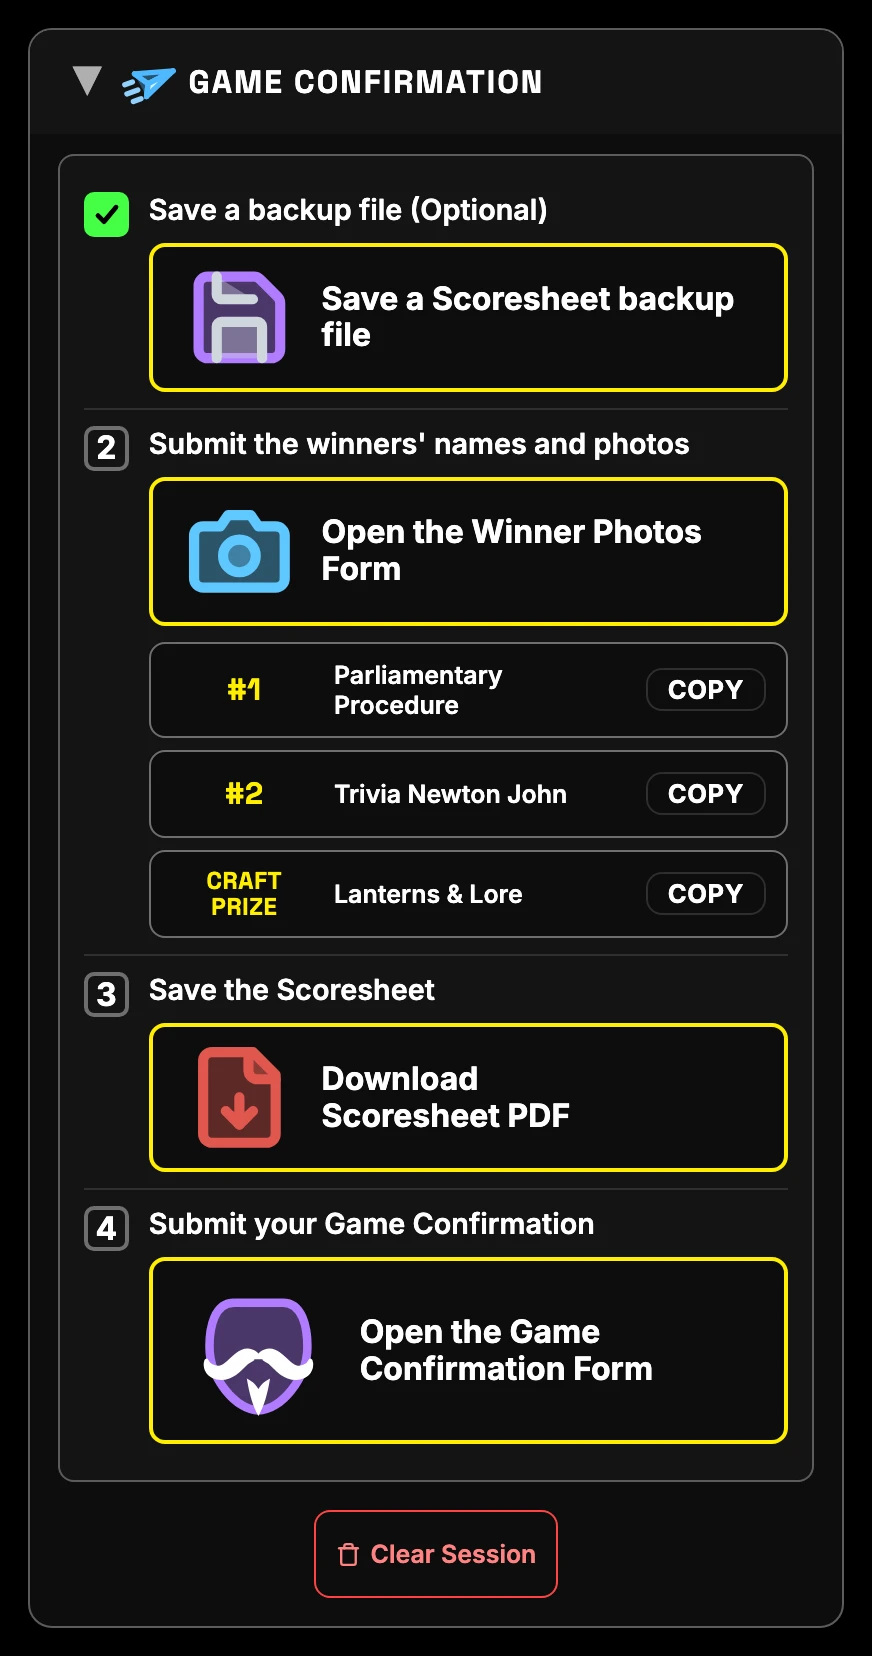
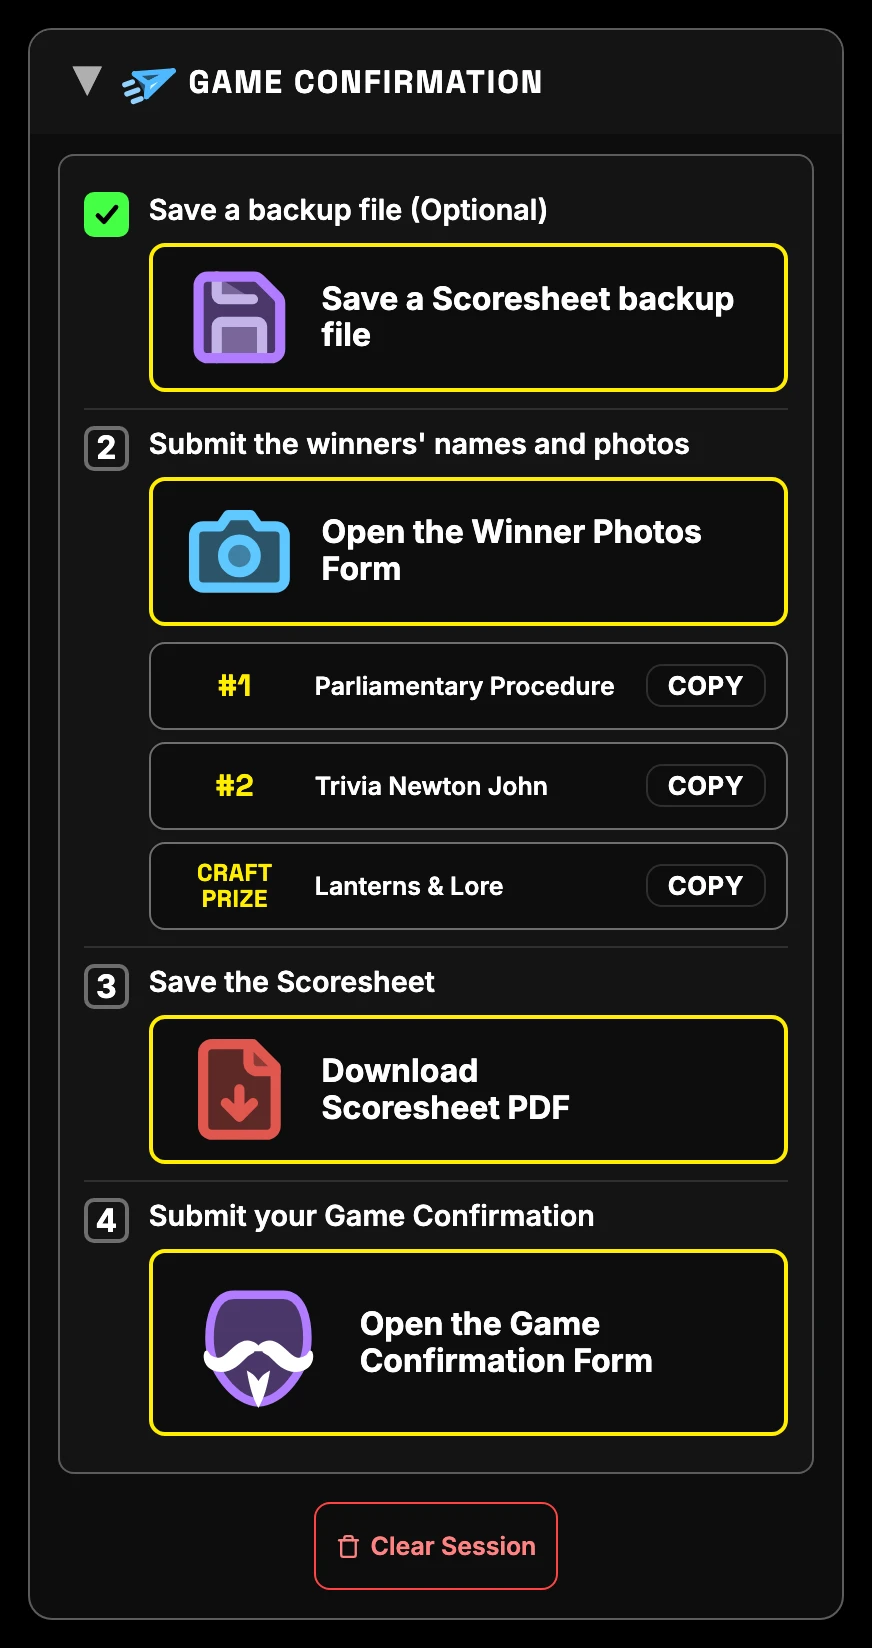
v22.72 Place labels nudged left, floppy silver strokes under purple, FAQ v1.73 screenshots

diff --git a/index.html b/index.html
@@ -109,7 +109,7 @@
     </div>
     </div>
     <div class="settings-panel-foot">
-    <div class="settings-meta"><span class="settings-version" id="versionLabel"></span><details class="settings-about"><summary>What's new</summary><div class="about-ver"><b>v22.71</b><ul><li>Game Confirmation: the subtitle under each step is gone, so the list is shorter.</li></ul></div><div class="about-ver"><b>v22.70</b><ul><li>The "Copied" confirmation now fades back to the normal label smoothly instead of flashing, and step 4 says "Attach the PDF you just saved".</li></ul></div><div class="about-ver"><b>v22.69</b><ul><li>Game Confirmation: ticked steps use the same checkmark as question scoring, tapping the backup button no longer makes the view jump, step 4 is "Submit your Game Confirmation", and the place labels are darker in light mode.</li></ul></div></details><span class="settings-disclaimer"><svg class="icon-ui" viewBox="0 0 24 24" aria-hidden="true" focusable="false"><path d="m21.73 18-8-14a2 2 0 0 0-3.48 0l-8 14A2 2 0 0 0 4 21h16a2 2 0 0 0 1.73-3"/><path d="M12 9v4"/><path d="M12 17h.01"/></svg> Built with Anthropic's Claude AI — double-check scores &amp; banter yourself.</span></div>
+    <div class="settings-meta"><span class="settings-version" id="versionLabel"></span><details class="settings-about"><summary>What's new</summary><div class="about-ver"><b>v22.72</b><ul><li>Game Confirmation: the #1/#2/Craft Prize labels moved slightly left, and the backup floppy shows its silver strokes under the purple outline.</li></ul></div><div class="about-ver"><b>v22.71</b><ul><li>Game Confirmation: the subtitle under each step is gone, so the list is shorter.</li></ul></div><div class="about-ver"><b>v22.70</b><ul><li>The "Copied" confirmation now fades back to the normal label smoothly instead of flashing, and step 4 says "Attach the PDF you just saved".</li></ul></div></details><span class="settings-disclaimer"><svg class="icon-ui" viewBox="0 0 24 24" aria-hidden="true" focusable="false"><path d="m21.73 18-8-14a2 2 0 0 0-3.48 0l-8 14A2 2 0 0 0 4 21h16a2 2 0 0 0 1.73-3"/><path d="M12 9v4"/><path d="M12 17h.01"/></svg> Built with Anthropic's Claude AI — double-check scores &amp; banter yourself.</span></div>
     </div>
   </div>
 </div>

diff --git a/js/icons.js b/js/icons.js
@@ -190,7 +190,7 @@ const ICON_AZ_UP_PICT =
 const ICON_PDF_PICT =
   '<svg class="icon-ui icon-tinted icon-pdf" viewBox="0 0 24 24" aria-hidden="true" focusable="false"><path d="M15 2H6a2 2 0 0 0-2 2v16a2 2 0 0 0 2 2h12a2 2 0 0 0 2-2V7Z"/><path d="M14 2v4a2 2 0 0 0 2 2h4"/><path d="M12 12v6"/><path d="m9 15 3 3 3-3"/></svg>';
 const ICON_SAVE_PICT =
-  '<svg class="icon-ui icon-tinted icon-save" viewBox="0 0 24 24" aria-hidden="true" focusable="false"><path d="M15.2 3a2 2 0 0 1 1.4.6l3.8 3.8a2 2 0 0 1 .6 1.4V19a2 2 0 0 1-2 2H5a2 2 0 0 1-2-2V5a2 2 0 0 1 2-2z"/><path class="ip-2" d="M17 21v-7a1 1 0 0 0-1-1H8a1 1 0 0 0-1 1v7"/><path class="ip-2" d="M7 3v4a1 1 0 0 0 1 1h7"/></svg>';
+  '<svg class="icon-ui icon-tinted icon-save" viewBox="0 0 24 24" aria-hidden="true" focusable="false"><path class="ip-2" d="M17 21v-7a1 1 0 0 0-1-1H8a1 1 0 0 0-1 1v7"/><path class="ip-2" d="M7 3v4a1 1 0 0 0 1 1h7"/><path d="M15.2 3a2 2 0 0 1 1.4.6l3.8 3.8a2 2 0 0 1 .6 1.4V19a2 2 0 0 1-2 2H5a2 2 0 0 1-2-2V5a2 2 0 0 1 2-2z"/></svg>';
 const ICON_SAVE_EMOJI = '<span class="icon-emoji">💾</span>';
 const ICON_LINK_PICT =
   '<svg class="icon-ui" viewBox="0 0 24 24" aria-hidden="true" focusable="false"><path d="M10 13a5 5 0 0 0 7.54.54l3-3a5 5 0 0 0-7.07-7.07l-1.72 1.71"/><path d="M14 11a5 5 0 0 0-7.54-.54l-3 3a5 5 0 0 0 7.07 7.07l1.71-1.71"/></svg>';

diff --git a/css/styles.css b/css/styles.css
@@ -3264,7 +3264,7 @@ input.at-limit,textarea.at-limit{border-color:var(--accent-orange);box-shadow:0 
 .finish-rect-label{font-size:1rem;font-weight:800;line-height:1.15;white-space:normal;overflow-wrap:anywhere}
 .finish-rect-sub{font-size:.78rem;font-weight:600;line-height:1.2;white-space:normal}
 .finish-body .wc-btn{height:auto;min-height:44px;white-space:normal;overflow:visible;flex-wrap:wrap;min-width:0}
-.finish-body .wc-label{flex:none;width:4.6rem;min-width:0;text-align:center;line-height:1.1}
+.finish-body .wc-label{flex:none;width:4rem;min-width:0;text-align:center;line-height:1.1}
 .finish-body .wc-name{min-width:0;overflow-wrap:anywhere;word-break:normal;text-align:left}
 
 .btn.flash-copied,.btn.flash-copied:hover{background:var(--correct-badge-bg);color:var(--correct-badge-fg);border-color:var(--correct-badge-bg);animation:flashPop .32s ease-out}

diff --git a/js/app.js b/js/app.js
@@ -69,8 +69,8 @@ const FIELD_MAX = {
   timezone: 64,
   locale: 35,
 };
-const APP_VERSION = "v22.71"; // #Version Number — bump this manually when you release a new build
-const APP_VERSION_DATE = "Nov 22, 2026 4:36 AM"; // #Version Date — bump alongside APP_VERSION so folks can spot a stale build
+const APP_VERSION = "v22.72"; // #Version Number — bump this manually when you release a new build
+const APP_VERSION_DATE = "Nov 22, 2026 4:43 AM"; // #Version Date — bump alongside APP_VERSION so folks can spot a stale build
 // version.json (repo root) mirrors these two — see checkForUpdate() below for why, and bump it
 // in the same commit as these two or the update-available check starts lying: it'd either miss
 // a real new release (version.json still saying the old version) or nag a host running the

diff --git a/faq/index.html b/faq/index.html
@@ -1324,7 +1324,7 @@
         <div class="faq-shot">
           <img
             loading="lazy"
-            width="872" height="1656" decoding="async"
+            width="872" height="1648" decoding="async"
             src="screenshots/export-bar.webp"
             data-shot-base="export-bar"
             alt="Game Confirmation section as one numbered list: Save a backup file (Optional), Submit the winners' names and photos with Copy buttons for the top teams and the craft prize winner under it, Save the Scoresheet, and Submit your Game Confirmation"

diff --git a/faq/js/faq.js b/faq/js/faq.js
@@ -4,7 +4,7 @@
 // #versionLabel element. Here the same string feeds two spots — the page footer and the
 // Settings panel's settings-meta row — so bumping a release only means editing these two
 // constants instead of hunting down every place the version text is written out by hand.
-const FAQ_VERSION = "v1.72";
+const FAQ_VERSION = "v1.73";
 const FAQ_VERSION_DATE = "22 Nov 2026";
 
 // Same Lucide sun/moon geometry as the main app's THEME_ICON_SUN/MOON (js/app.js), tagged

diff --git a/faq/screenshots/README.md b/faq/screenshots/README.md
@@ -51,7 +51,7 @@ comparison it exists to make.
 | `craft-prize.webp` | The Craft Prize Drawing section open pre-draw, showing the Exclude Top / Drumroll-seconds steppers and the square **Start Drumroll** button (v19.60). | Craft Prize Drawing |
 | `craft-prize-drumroll.webp` | The Craft Prize drumroll actively playing, right after clicking Start Drumroll — the spinning name and countdown bar. | Craft Prize Drawing |
 | `craft-prize-winner.webp` | The finished draw — winning team announced, with the **Clear** button next to the result and the Winner Announcement Script below. | Craft Prize Drawing |
-| `export-bar.webp` | The Game Confirmation section as one numbered list — Save a backup file (Optional), Submit the winners' names and photos (📷 form button with the Copy buttons for the top teams and craft prize winner under it), Save the Scoresheet (Download Scoresheet PDF), Submit your Game Confirmation (🎭 form button), then Clear Session. Each step button is a wide rectangle with a gold outline and the picto on the left (v22.71). Dark + light. | Exporting |
+| `export-bar.webp` | The Game Confirmation section as one numbered list — Save a backup file (Optional), Submit the winners' names and photos (📷 form button with the Copy buttons for the top teams and craft prize winner under it), Save the Scoresheet (Download Scoresheet PDF), Submit your Game Confirmation (🎭 form button), then Clear Session. Each step button is a wide rectangle with a gold outline and the picto on the left (v22.72). Dark + light. | Exporting |
 | `pdf-export.webp` | The downloaded PDF scoresheet — same header plus full standings. | Exporting |
 | `jd-upload-form.webp` | The Game Confirmation page, opened in its own browser tab. | Exporting |
 | `sound-test-buttons.webp` | The Craft Prize Drawing's Test Sounds bar — the square Roll / Fade out / Crash / Horn buttons (Advanced Settings → Manual Drumroll Control **and** Sound Test Buttons both on). | Tips & Tricks |

diff --git a/CHANGELOG.md b/CHANGELOG.md
@@ -14,6 +14,12 @@ Theme Night is a major change, so its first release (commit subject "v19.78") is
 v20.0 here and in the app, and the follow-ups after it are v20.1 through v20.6 (commit subjects
 v19.79 through v19.84; git history isn't rewritten).
 
+## v22.72 - 2026-11-22
+
+- **Copy-name labels** (#1/#2/Craft Prize) in step 2 moved a bit to the left (narrower label column, so team names also fit on one line more often).
+- **Step 1 floppy disk:** the silver strokes now sit under the purple outline (drawn first in `ICON_SAVE_PICT`).
+- FAQ v1.73: regenerated `export-bar` screenshots.
+
 ## v22.71 - 2026-11-22
 
 - **Game Confirmation steps lose their subtitles** (the hint line under each step title) so the list is shorter and less wordy.

diff --git a/faq/CHANGELOG.md b/faq/CHANGELOG.md
@@ -2,6 +2,12 @@
 
 All notable changes to the Scorekeeper FAQ site are documented here.
 
+## [1.73] - 22 Nov 2026
+
+### Changed
+
+- **Game Confirmation screenshot** (`export-bar`, dark + light) regenerated for app v22.72: place labels shifted left and the floppy's silver strokes sit under the purple outline.
+
 ## [1.72] - 22 Nov 2026
 
 ### Changed
